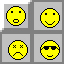
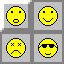
Clicked faces

diff --git a/src/jrt/ScorePanel.java b/src/jrt/ScorePanel.java
@@ -17,9 +17,8 @@ import javax.swing.JButton;
 import javax.swing.JLabel;
 import javax.swing.JPanel;
 
+@SuppressWarnings("serial")
 public class ScorePanel extends JPanel {
-	//TODO    v    remove static from here
-	private static final long serialVersionUID = 1L;
 	private int displayWidth, displayHeight, faceSize, remainingFlags, time;
 	private double scale;
 	private BorderLayout layout;
@@ -60,7 +59,7 @@ public class ScorePanel extends JPanel {
 		try {
 			displayImage = ImageIO.read(new File("res/seven_segment_display.jpg"));
 			faces = ImageIO.read(new File("res/extra_tiles.jpg"));
-			clickedFaces = ImageIO.read(new File("res/clicked_bomb_tiles.jpg"));
+			clickedFaces = ImageIO.read(new File("res/clicked_tiles.jpg"));
 		} catch (IOException e) {
 			e.printStackTrace();
 		}
@@ -72,12 +71,24 @@ public class ScorePanel extends JPanel {
 		happyFace = new ImageIcon(style.resize(faces.getSubimage(0, 0, 32, 32), faceSize, faceSize));
 		glassFace = new ImageIcon(style.resize(faces.getSubimage(32, 0, 32, 32), faceSize, faceSize));
 		deadFace = new ImageIcon(style.resize(faces.getSubimage(0, 32, 32, 32), faceSize, faceSize));
-		
+		clickedHappyFace = new ImageIcon(style.resize(clickedFaces.getSubimage(32, 0, 32, 32), faceSize, faceSize));
+		clickedDeadFace = new ImageIcon(style.resize(clickedFaces.getSubimage(0, 32, 32, 32), faceSize, faceSize));
+		clickedGlassFace = new ImageIcon(style.resize(clickedFaces.getSubimage(32, 32, 32, 32), faceSize, faceSize));
 		prepareFace();
 		
 		btnFace.addMouseListener(new MouseListener() {
 			@Override
 			public void mouseReleased(MouseEvent e) {
+				if(btnFace.getIcon() == clickedHappyFace)
+					btnFace.setIcon(happyFace);
+				else if(btnFace.getIcon() == clickedDeadFace)
+					btnFace.setIcon(deadFace);
+				else if(btnFace.getIcon() == clickedGlassFace) {
+					if(isMouseIn(e,btnFace))
+						btnFace.setIcon(happyFace);
+					else
+						btnFace.setIcon(glassFace);
+				}
 				if(isMouseIn(e, btnFace)) {
 					window.field.resetGame();
 				}
@@ -85,7 +96,12 @@ public class ScorePanel extends JPanel {
 			
 			@Override
 			public void mousePressed(MouseEvent e) {
-				
+				if(btnFace.getIcon() == happyFace)
+					btnFace.setIcon(clickedHappyFace);
+				else if(btnFace.getIcon() == deadFace)
+					btnFace.setIcon(clickedDeadFace);
+				else if(btnFace.getIcon() == glassFace)
+					btnFace.setIcon(clickedGlassFace);
 			}
 			
 			@Override
@@ -133,7 +149,10 @@ public class ScorePanel extends JPanel {
 	}
 	
 	protected boolean isMouseIn(MouseEvent e, Component component) {
-		if(e.getX() >= component.getX() && e.getX() <= component.getWidth() && e.getY() >= component.getY() && e.getY() <= component.getWidth())
+		if(e.getXOnScreen() >= component.getLocationOnScreen().getX() &&
+				e.getXOnScreen() <= component.getLocationOnScreen().getX() + component.getWidth() &&
+				e.getYOnScreen() >= component.getLocationOnScreen().getY() &&
+				e.getYOnScreen() <= component.getLocationOnScreen().getY() + component.getWidth())
 			return true;
 		return false;
 	}
@@ -245,7 +264,9 @@ class Timer extends Thread implements Runnable{
 		this.start();
 	}
 	
+	@SuppressWarnings("deprecation")
 	public void stopCounting() {
+		this.stop();
 		timerRunning = false;
 	}
 }
